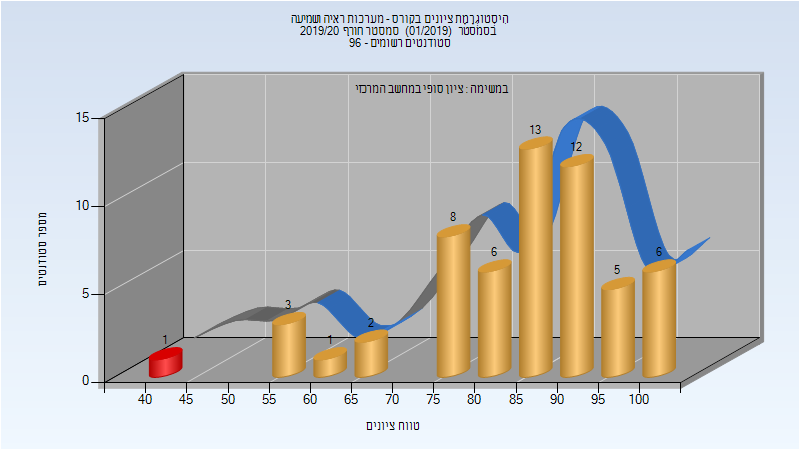
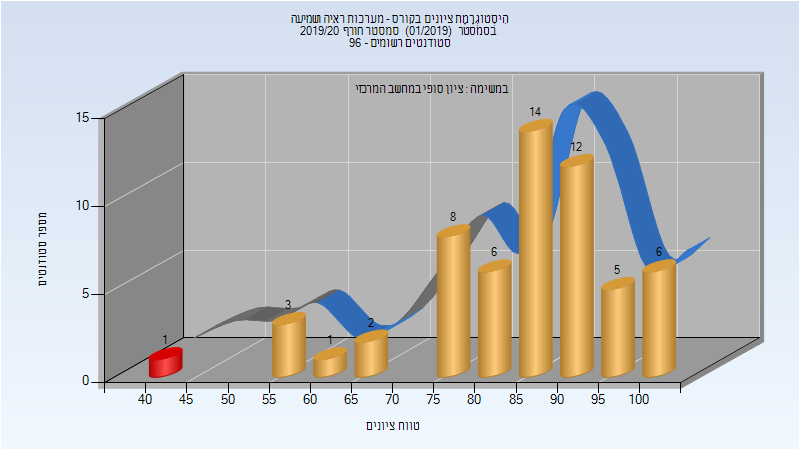
Deploy michael-maltsev/technion-histograms to github.com/michael-maltsev/technion-histograms.git:gh-pages

Changed region(s): [[0.625, 0.1867, 0.7812, 0.3422]]

diff --git a/046332/index.html b/046332/index.html
@@ -350,12 +350,12 @@
 </thead>
 <tbody>
 <tr>
-<td>66</td>
-<td>65/1</td>
-<td>98</td>
+<td>67</td>
+<td>66/1</td>
+<td>99</td>
 <td>42</td>
 <td>500</td>
-<td>141.015</td>
+<td>140.194</td>
 <td>87</td>
 </tr>
 </tbody>

diff --git a/046332/README.md b/046332/README.md
@@ -108,5 +108,5 @@
 
 | סטודנטים | עברו/נכשלו | אחוז עוברים | ציון מינימלי | ציון מקסימלי | ממוצע | חציון |
 | ---- | ---- | ---- | ---- | ---- | ---- | ---- |
-| 66 | 65/1 | 98 | 42 | 500 | 141.015 | 87 |
+| 67 | 66/1 | 99 | 42 | 500 | 140.194 | 87 |
 
